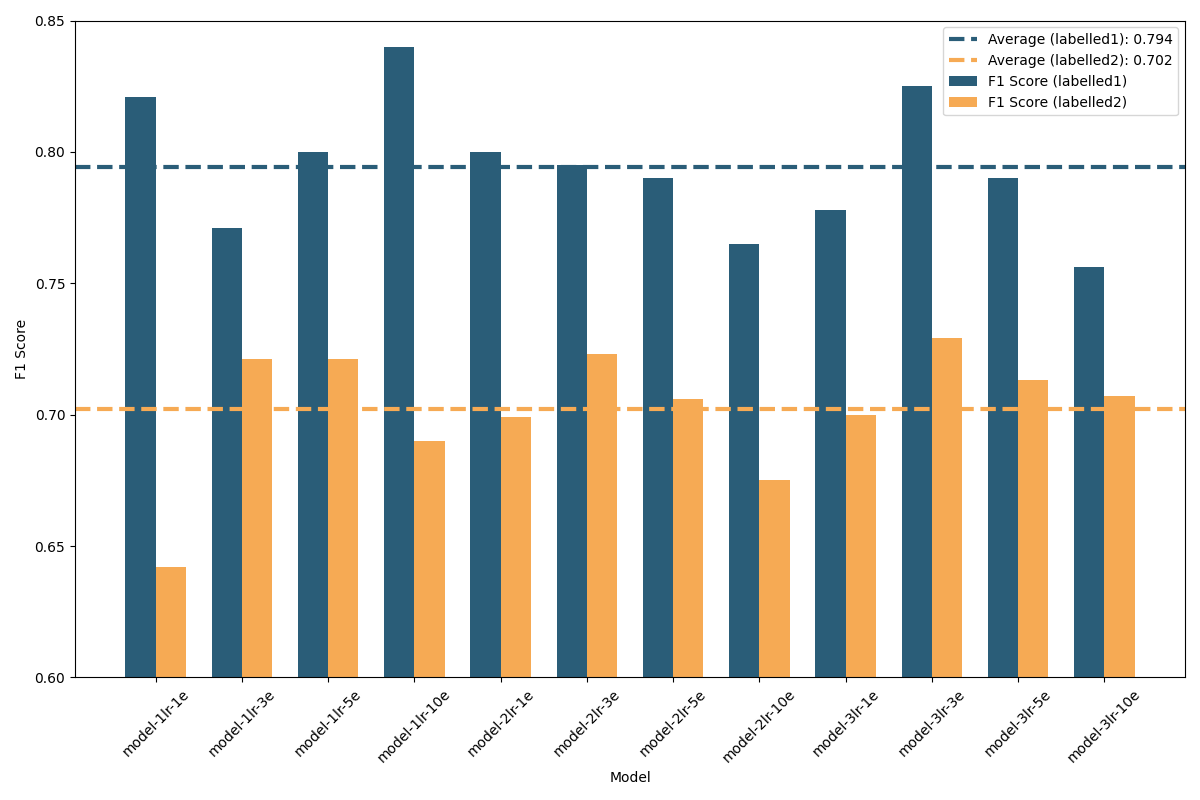
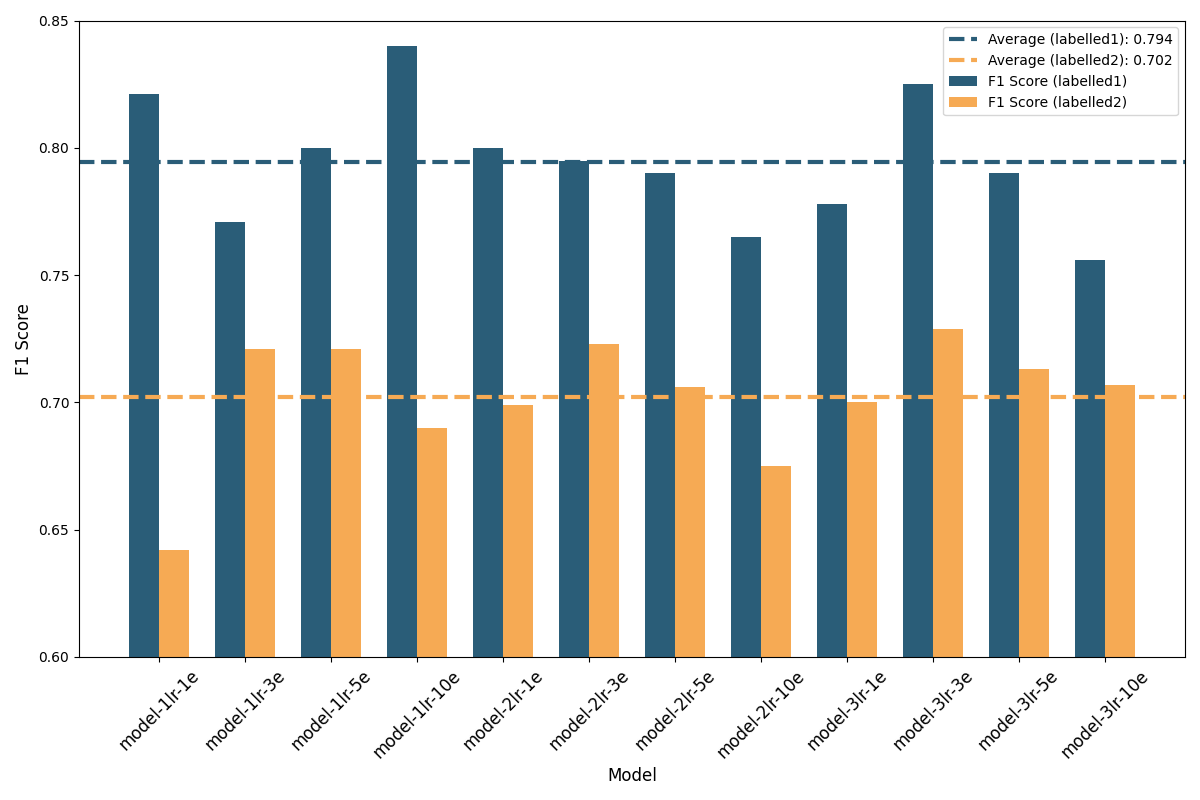
graph updates

diff --git a/graphMakers/tweetResultsGraph.py b/graphMakers/tweetResultsGraph.py
@@ -34,11 +34,11 @@ ax.axhline(avg_f1_labelled2, color='#F17D48', linestyle='--', label=f"Average (l
 
 
 # Labels, title, and y-axis range
-ax.set_xlabel("Model")
-ax.set_ylabel("F1 Score")
-ax.set_title("F1 Scores of BERTweet Models Fine-Tuned on the Disaster Tweets Dataset")
+ax.set_xlabel("Model", fontsize=12)
+ax.set_ylabel("F1 Score", fontsize=12)
 ax.set_xticks(x)
-ax.set_xticklabels(models, rotation=45)
+ax.set_xticklabels(models, rotation=45, fontsize=12)
+ax.tick_params(axis='y', labelsize=12)  # Increase font size of y-axis labels
 
 ax.set_ylim(0.6, 0.8)  # Set y-axis range from 0.6 to 1.0
 ax.legend()

diff --git a/graphMakers/bertResultsGraph.py b/graphMakers/bertResultsGraph.py
@@ -33,10 +33,10 @@ ax.axhline(avg_f1_labelled1, color='#2A5D78', linestyle='--', label=f"Average (l
 ax.axhline(avg_f1_labelled2, color='#F6AA54', linestyle='--', label=f"Average (labelled2): {avg_f1_labelled2:.3f}", linewidth=3)
 
 # Labels, title, and y-axis range
-ax.set_xlabel("Model")
-ax.set_ylabel("F1 Score")
+ax.set_xlabel("Model", fontsize=12)
+ax.set_ylabel("F1 Score", fontsize=12)
 ax.set_xticks(x)
-ax.set_xticklabels(models, rotation=45)
+ax.set_xticklabels(models, rotation=45, fontsize=12)
 
 ax.set_ylim(0.6, 0.85)  # Set y-axis range from 0.6 to 1.0
 ax.legend()
